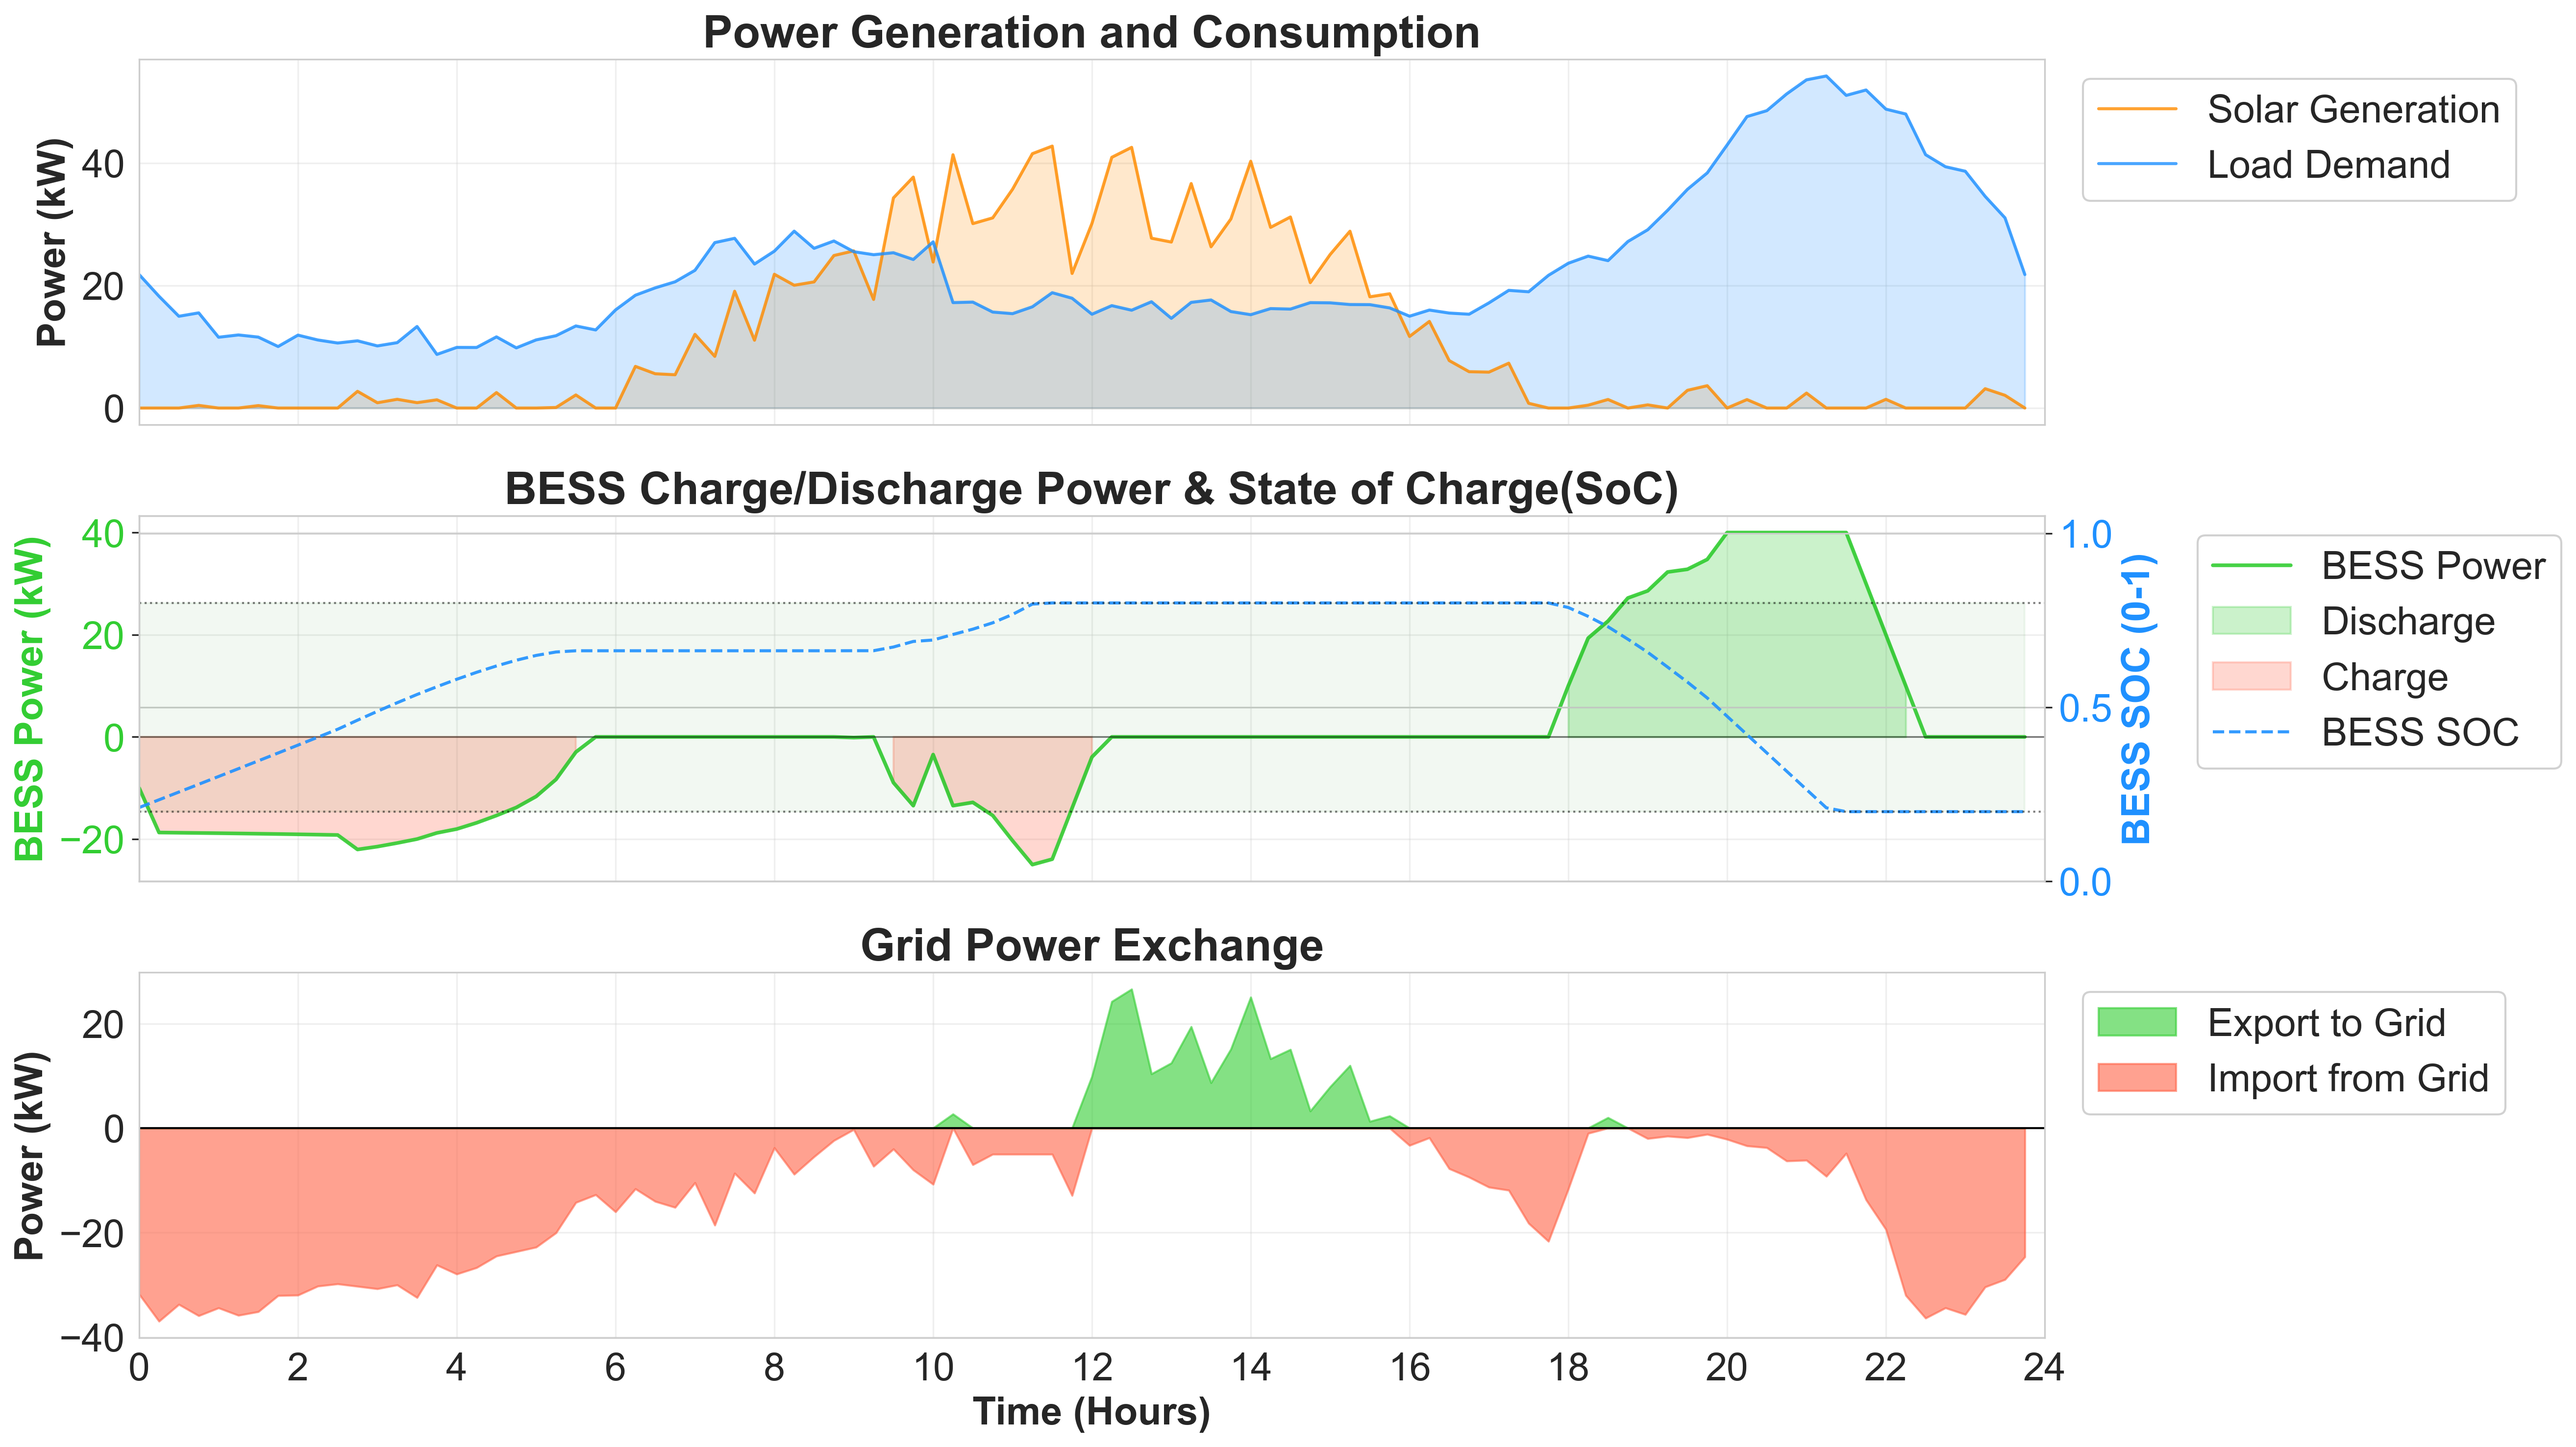
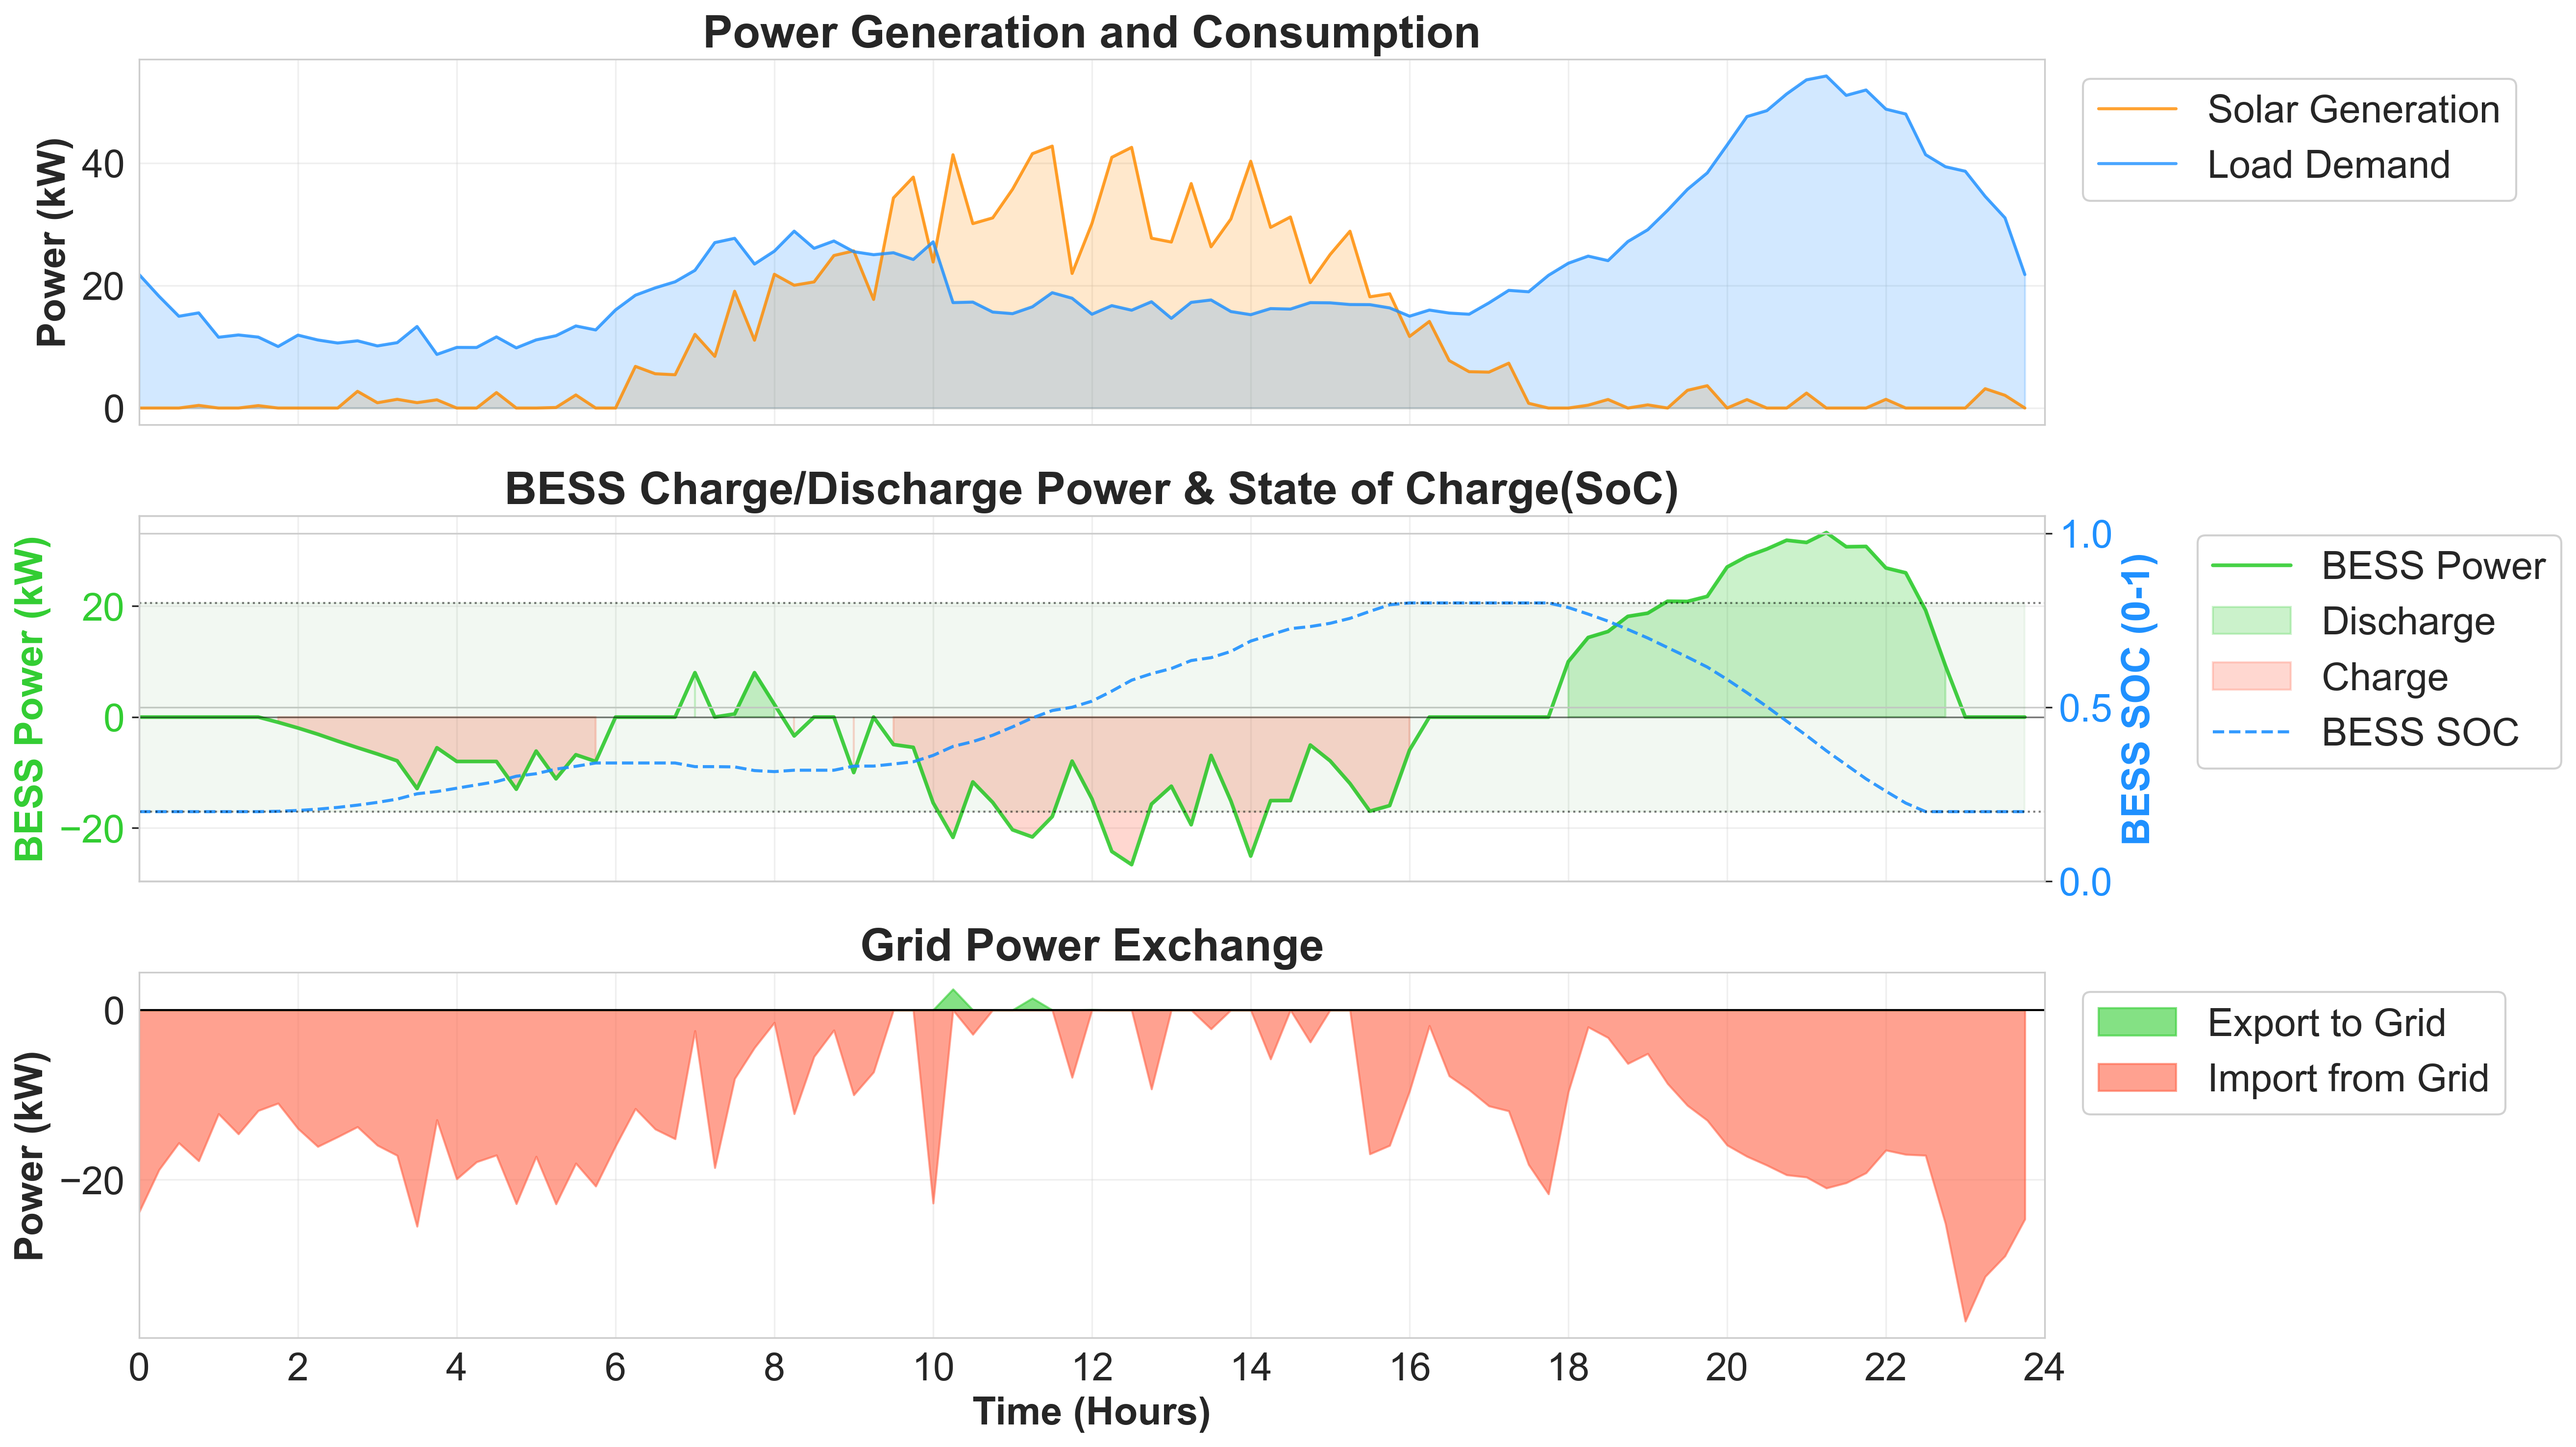
just run

diff --git a/RL_agent/get_controlled_voltages.py b/RL_agent/get_controlled_voltages.py
@@ -28,7 +28,7 @@ from openDSS.run_opendss import VPPDSSRunner
 # ============================================================================
 # ⚙  CONFIGURATION - Change scenario here
 # ============================================================================
-SCENARIO = "night_peak"  # Options: "night_peak", "daytime_peak", "solar_unavailable_day", "low_load_weekend"
+SCENARIO = "intermittent_solar"  # Options: "night_peak", "daytime_peak", "solar_unavailable_day", "low_load_weekend"
 # ============================================================================
 
 

diff --git a/RL_agent/plot_results.py b/RL_agent/plot_results.py
@@ -21,7 +21,7 @@ STATS_PATH = os.path.join(script_dir, "checkpoints", "best_model", "vecnormalize
 OUTPUT_DIR = os.path.join(os.path.dirname(script_dir), "results_plots")  # Where to save plots
 
 steps_to_plot = 96  # One day (15 min intervals)
-SCENARIO_NAME = "daytime_peak" # Set to same as train.py (e.g. "heatwave_day") or None for default
+SCENARIO_NAME = "intermittent_solar" # Set to same as train.py (e.g. "heatwave_day") or None for default
  
 # Node configuration
 SOLAR_NODE_INDICES = [3, 5, 7, 10, 11, 13, 15, 17, 18, 19, 20]

diff --git a/RL_agent/train.py b/RL_agent/train.py
@@ -39,7 +39,7 @@ def main():
 
     # Set to a scenario name (e.g., "cloudy_day") to train on that specific scenario.
     # Set to None to use the default 'load_forecast.csv' and 'solar_forecast_formatted.csv'
-    scenario_name = "daytime_peak"  # Change to any scenario above
+    scenario_name = "intermittent_solar"  # Change to any scenario above
 
 
     # Get script directory to ensure outputs save in RL_agent folder
